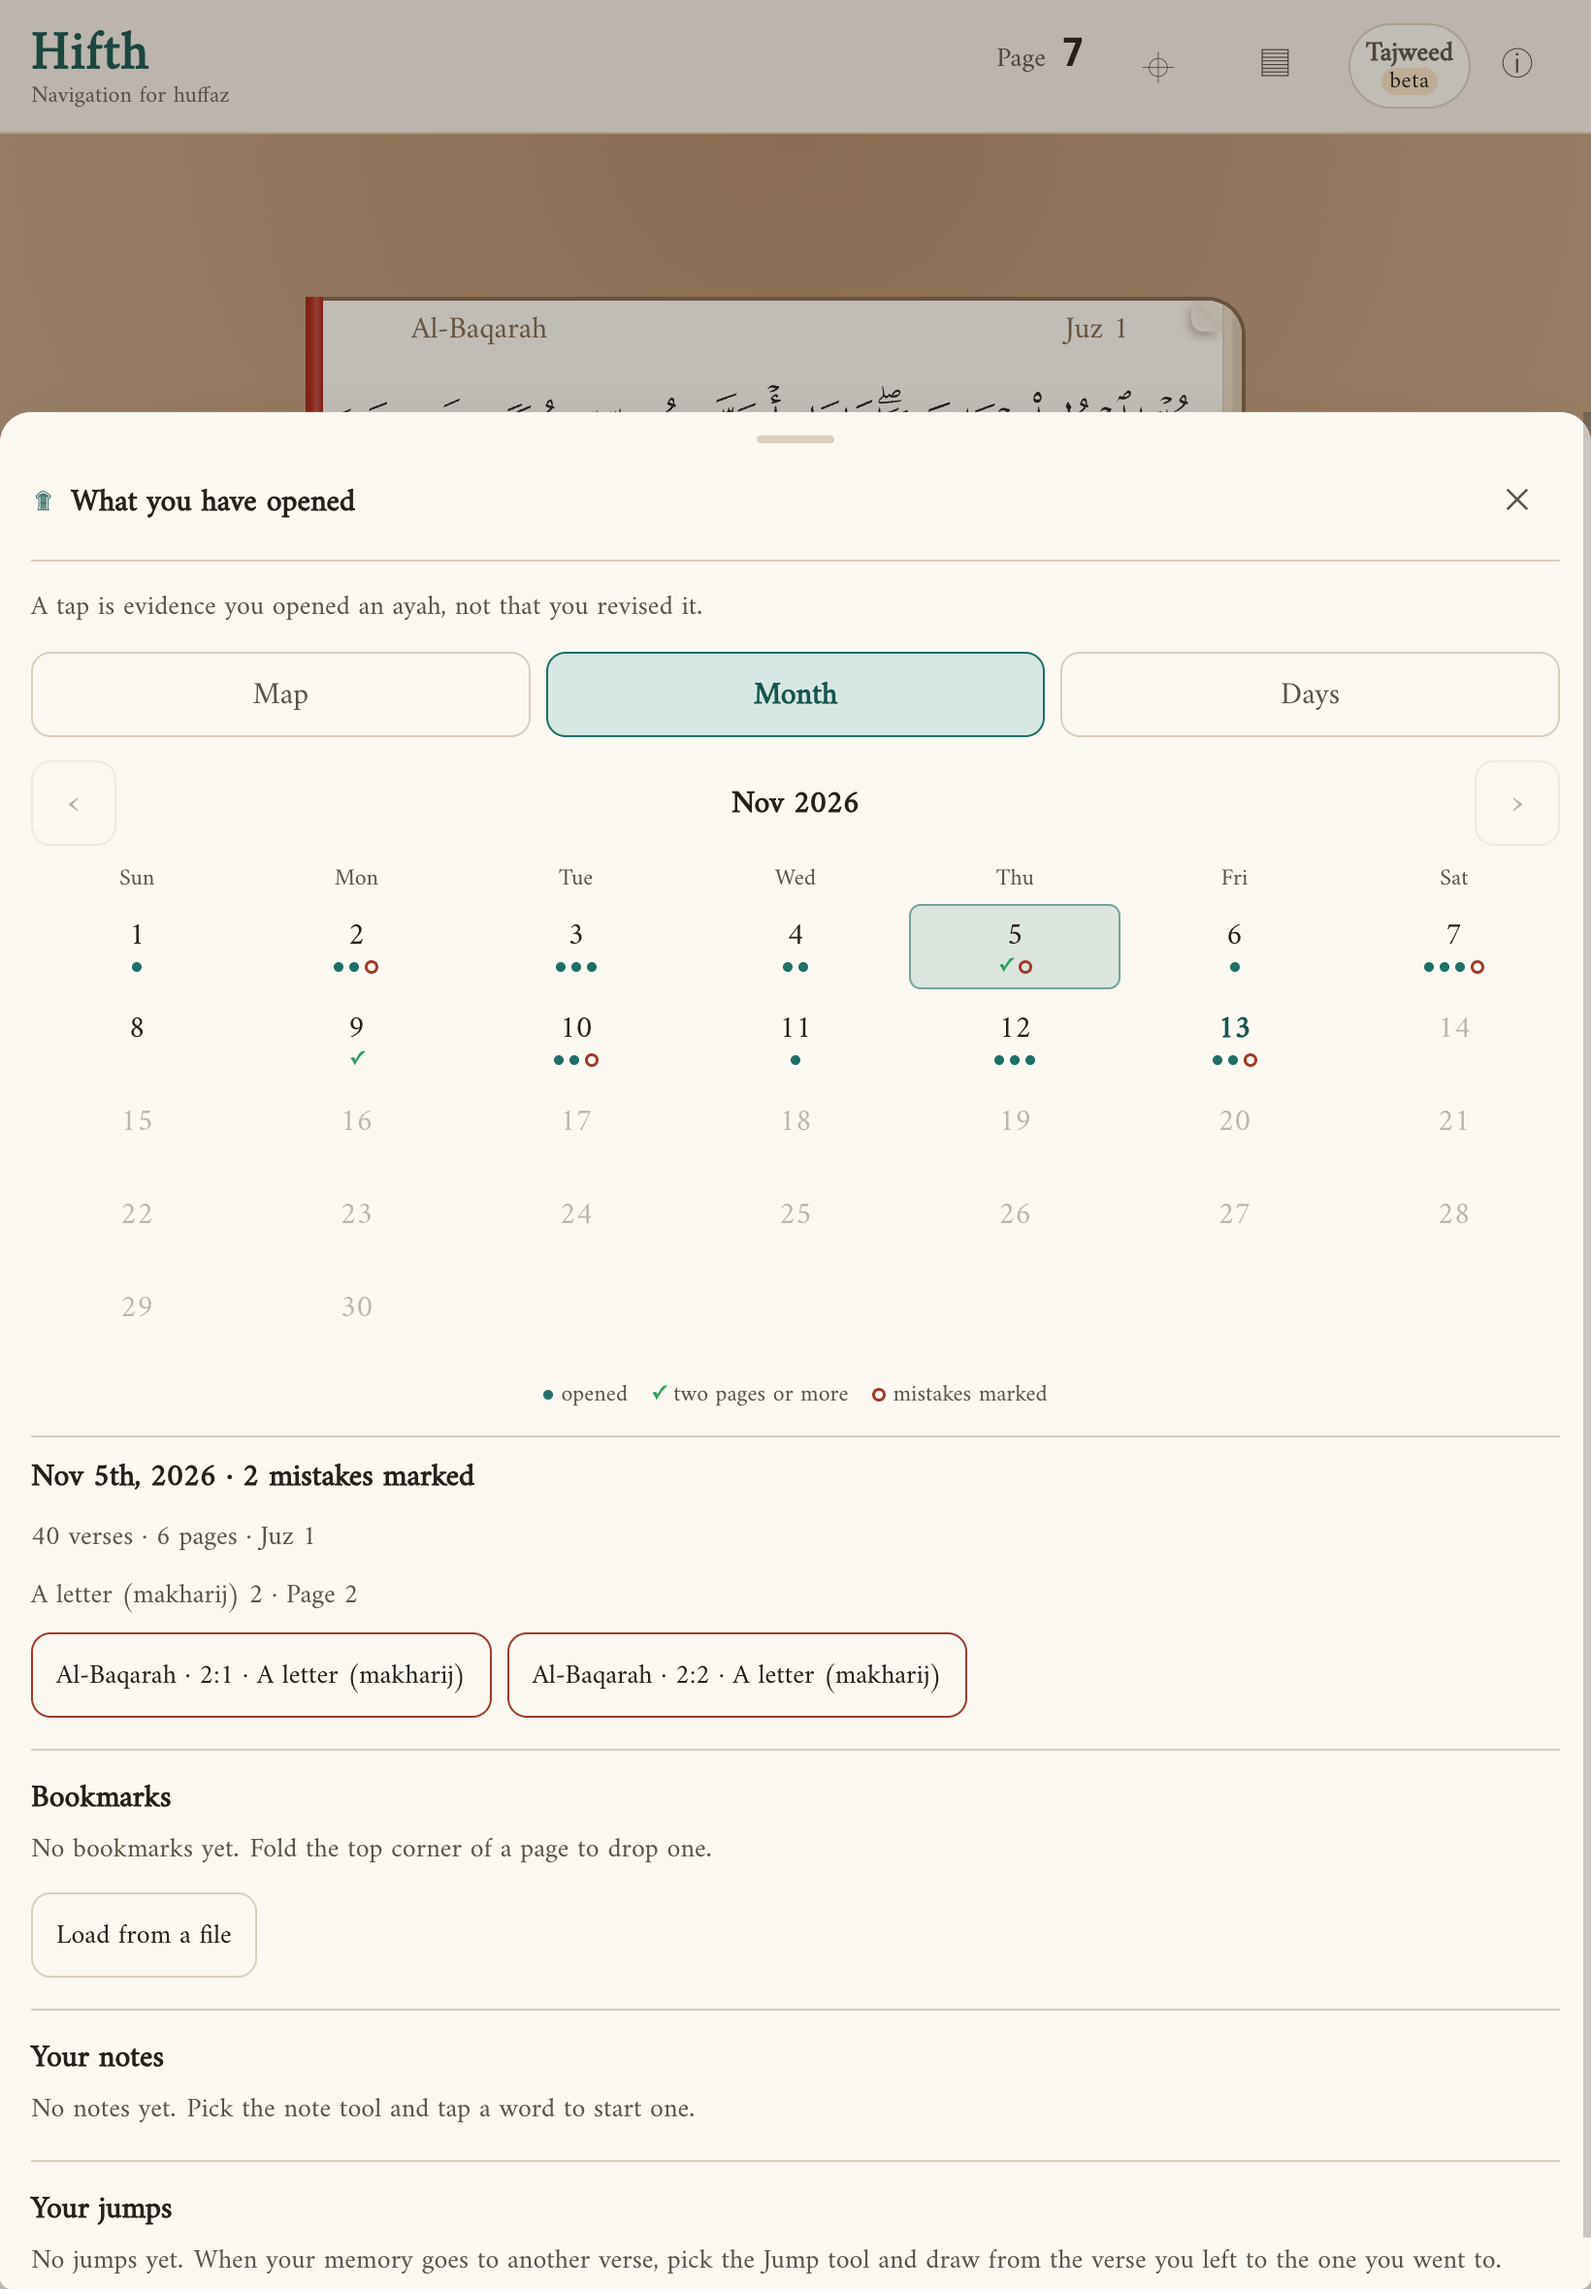
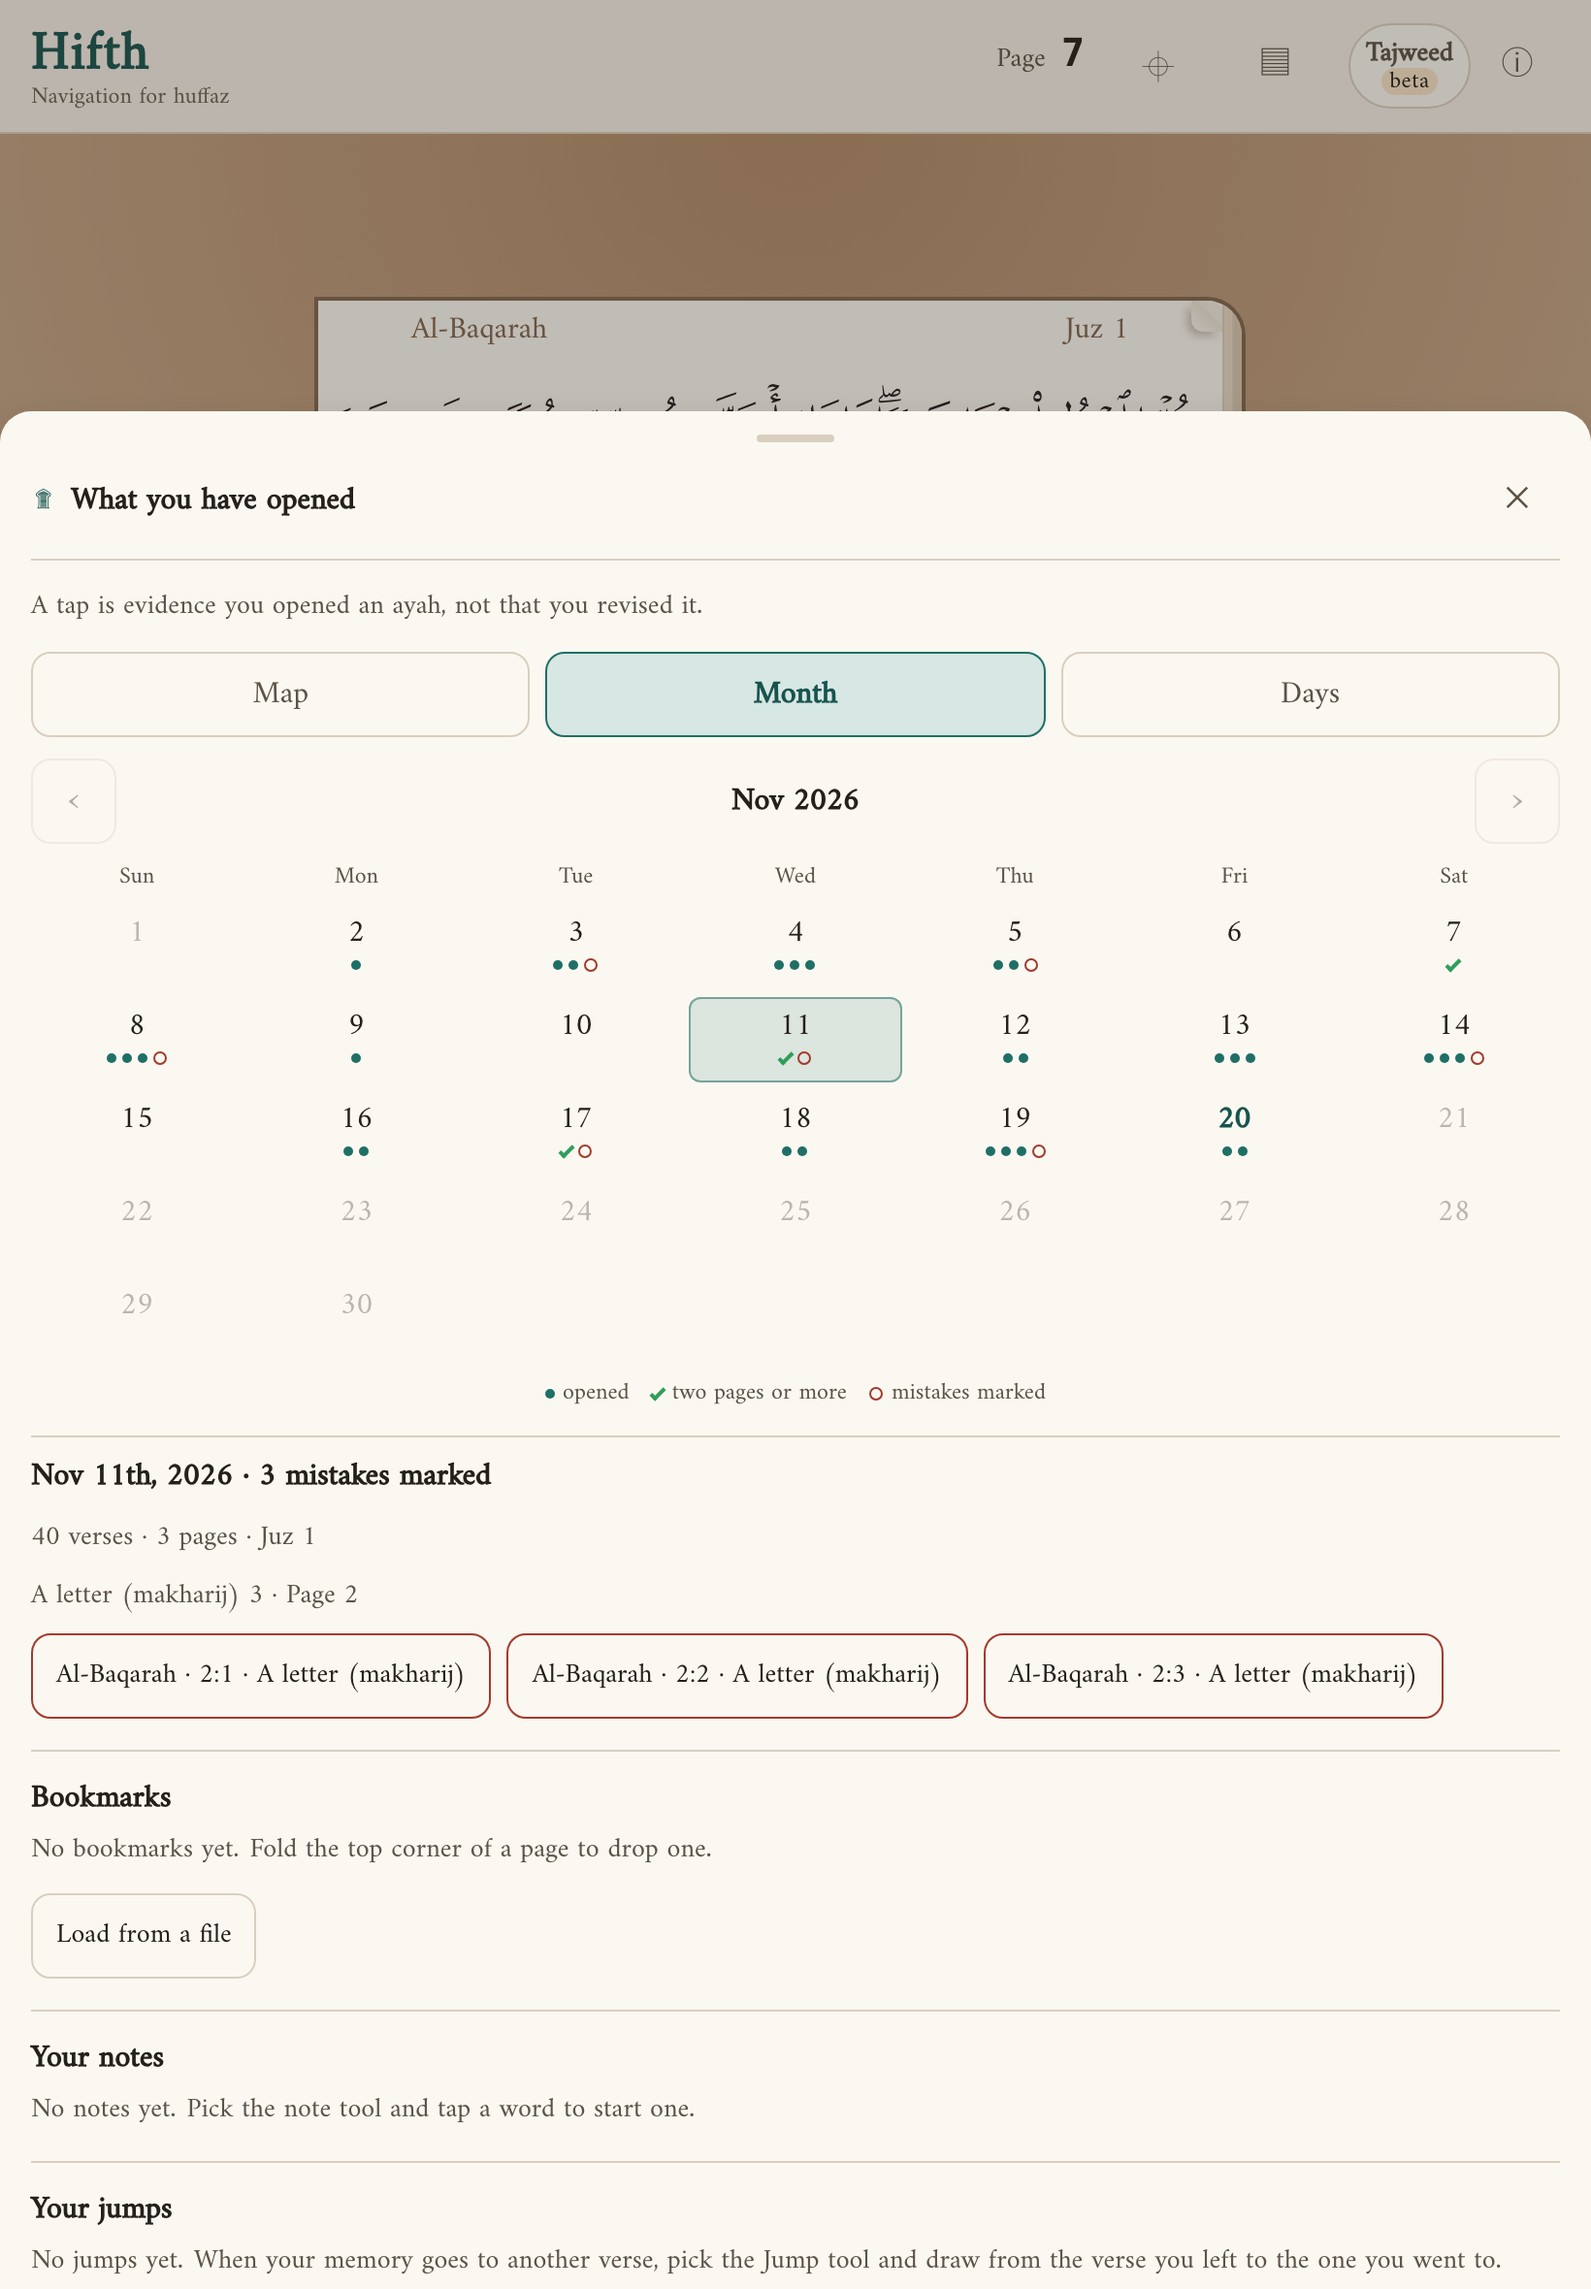
Dots look: a drawn tick, tests for the tick and the red ring, fair pictures
- The green tick is now drawn with two borders instead of a check-mark
  character, so it looks the same in every browser's font.
- The browser test now seeds a third made-up day with thirty verses on two
  pages, one marked a mistake, and checks it shows a tick, no dots and a red
  ring; and that the twenty-verse day shows no ring. Passes in Chrome,
  Firefox and iPhone Safari.
- The dots pictures are retaken on the same made-up month as the other
  looks, so the comparison is fair; the side-by-side picture now has all
  five looks. The Arabic sheet was checked by eye for right-to-left order.
- The note says why shades stays the default for now: dots are untried, and
  a day with one mistake looks like a day with three until tapped.

Intent-Task: mistake-kinds-beyond-the-word

diff --git a/apps/web/e2e/record-days.spec.ts b/apps/web/e2e/record-days.spec.ts
@@ -199,6 +199,19 @@ test.describe("Hifth · the record, day by day", () => {
       "2026-03-09",
       Array.from({ length: 20 }, (_, i) => ({ key: `quran/hafs-kfqc/2:${i + 1}`, page: 2 + Math.floor(i / 7), at: at + i, tz })),
     );
+    // Two days before: thirty made-up verses, two pages, one of them marked a mistake.
+    const before = at - 2 * 86_400_000;
+    await seed(
+      page,
+      "2026-03-07",
+      Array.from({ length: 30 }, (_, i) => ({
+        key: `quran/hafs-kfqc/3:${i + 1}`,
+        page: 50 + Math.floor(i / 15),
+        at: before + i,
+        tz,
+        ...(i === 0 ? { slip: true, what: "letter" } : {}),
+      })),
+    );
     await page.reload();
     await expect(page.locator("svg[role='group']").first()).toBeVisible();
 
@@ -229,7 +242,8 @@ test.describe("Hifth · the record, day by day", () => {
     expect(round).toBe("50%");
     await page.keyboard.press("Escape");
 
-    // Dots: marks under the date, one dot for a light day, three for twenty verses, no fill.
+    // Dots: marks under the date, one dot for a light day, three for twenty verses, a tick
+    // and no dots for two pages, a red ring for a day with a mistake, and no fill.
     await page.getByRole("button", { name: /About Hifth/ }).click();
     await choices.and(page.locator('[data-calendar-look-choice="dots"]')).click();
     await page.keyboard.press("Escape");
@@ -238,6 +252,10 @@ test.describe("Hifth · the record, day by day", () => {
     await expect(month).toHaveAttribute("data-look", "dots");
     await expect(month.locator('[data-day="2026-03-10"] [data-mark="dot"]')).toHaveCount(1);
     await expect(month.locator('[data-day="2026-03-09"] [data-mark="dot"]')).toHaveCount(3);
+    await expect(month.locator('[data-day="2026-03-07"] [data-mark="full"]')).toHaveCount(1);
+    await expect(month.locator('[data-day="2026-03-07"] [data-mark="dot"]')).toHaveCount(0);
+    await expect(month.locator('[data-day="2026-03-07"] [data-mark="mistakes"]')).toHaveCount(1);
+    await expect(month.locator('[data-day="2026-03-09"] [data-mark="mistakes"]')).toHaveCount(0);
     await expect(month.locator('[data-day="2026-03-08"] [data-mark]')).toHaveCount(0);
     await expect(month.locator('[data-day="2026-03-09"]')).toHaveCSS("background-color", "rgba(0, 0, 0, 0)");
   });

diff --git a/apps/web/src/components/RevisionDays.tsx b/apps/web/src/components/RevisionDays.tsx
@@ -210,7 +210,7 @@ export function RevisionDays({ layout, events, since, today, edition, onGoToVers
             <span className={styles.dot} /> {t.calendarDotsOpened}
           </span>
           <span>
-            <span className={styles.tick}>✓</span> {t.calendarDotsFull}
+            <span className={styles.tick} /> {t.calendarDotsFull}
           </span>
           <span>
             <span className={styles.ring} /> {t.calendarDotsMistakes}
@@ -242,9 +242,7 @@ function Marks({ verses, mistakes }: { verses: number; mistakes: number }): JSX.
         <span key={i} className={styles.dot} data-mark="dot" />
       ))}
       {m.full && (
-        <span className={styles.tick} data-mark="full">
-          ✓
-        </span>
+        <span className={styles.tick} data-mark="full" />
       )}
       {m.mistakes && <span className={styles.ring} data-mark="mistakes" />}
     </span>

diff --git a/apps/web/src/components/RevisionDays.module.css b/apps/web/src/components/RevisionDays.module.css
@@ -312,11 +312,16 @@ button.mistake {
   border: 1.5px solid var(--danger);
   box-sizing: border-box;
 }
+/* Drawn with two borders, not a check-mark character, so it looks the same in every browser's font. */
 .tick {
-  font-size: 10px;
-  font-weight: 700;
-  line-height: 1;
-  color: #2f9e5b;
+  display: inline-block;
+  box-sizing: border-box;
+  inline-size: 4px;
+  block-size: 8px;
+  margin-inline: 1px;
+  border: solid #2f9e5b;
+  border-width: 0 2px 2px 0;
+  transform: translateY(-1px) rotate(45deg);
 }
 .key {
   display: flex;

diff --git a/docs/design/calendar-look.md b/docs/design/calendar-look.md
@@ -3,7 +3,7 @@
 *Asked 2026-11-12, from the owner's comment on the front page: the calendar should be more appealing to look at. Today every day you opened anything is the same flat colour, so a day of two verses and a day of forty-five look alike. There are now four looks, all built into the app; the fourth, dots, was added 2026-11-13 from the owner's picture of the Mac's menu-bar calendar. Pick one in the info panel under "How the calendar shows a day", use it for a while, then tell Claude which one.*
 
 > [!tip] Recommended
-> **Shades.** It answers "which days were light?" before you read a single number, and it keeps the month as short as it is today, so the day you tap still shows below it without scrolling. Rings look the most like a status widget, but they make the month a row taller on a phone.
+> **Shades.** It answers "which days were light?" before you read a single number, and it keeps the month as short as it is today, so the day you tap still shows below it without scrolling. Rings look the most like a status widget, but they make the month a row taller on a phone. Dots, the newest, read like the calendar on a Mac or phone, but no one has lived with them yet, and a day with one mistake looks the same as a day with three until you tap it; shades stays the default until you have tried both.
 
 Until you pick, the app uses **shades**.
 
@@ -21,9 +21,9 @@ Until you pick, the app uses **shades**.
 
 ## The four looks, side by side
 
-A made-up month on a phone, today's look first:
+The same made-up month on a phone, in each look from left to right: today, shades, rings, cards, dots.
 
-![Today, shades, rings, cards](calendar-look/side-by-side.png)
+![The same month in five looks: today, shades, rings, cards, dots](calendar-look/side-by-side.png)
 
 | | Today | Shades | Rings | Cards | Dots |
 | --- | --- | --- | --- | --- | --- |
@@ -31,7 +31,7 @@ A made-up month on a phone, today's look first:
 | How much was opened | Not shown; every day is the same colour | The deeper the teal, the more you opened | A ring round the date fills; full at two pages | A bar along the bottom grows; full at two pages | One to three dots under the date; a green tick at two pages |
 | Mistakes | A red number under the date | A red number in the corner | A red number under the ring | A red number in the corner | A small red ring after the dots; no number |
 | Height on a phone | Same as today | Same as today | One row taller | A little taller | A little taller, plus a one-line key under the month |
-| *For a hafiz* | A light day hides among full ones. | Light days stand out at a glance; the exact amount is four steps, not a count. | The most exact at a glance, and the most like a phone's activity rings. Busier to look at. | Calm and tidy; the bar is small, so how much is the last thing you notice. | The calmest: the month reads like the calendar on your Mac or phone, and a mistake day stands out by its red ring. The count waits for a tap. |
+| *For a hafiz* | A light day hides among full ones. | Light days stand out at a glance; the exact amount is four steps, not a count. | The most exact at a glance, and the most like a phone's activity rings. Busier to look at. | Calm and tidy; the bar is small, so how much is the last thing you notice. | Plain paper with small marks: the month reads like the calendar on your Mac or phone, and a mistake day stands out by its red ring. The count waits for a tap. |
 
 > [!note]- The whole sheet, on an iPad and a computer
 > | | Shades | Rings | Cards | Dots |
